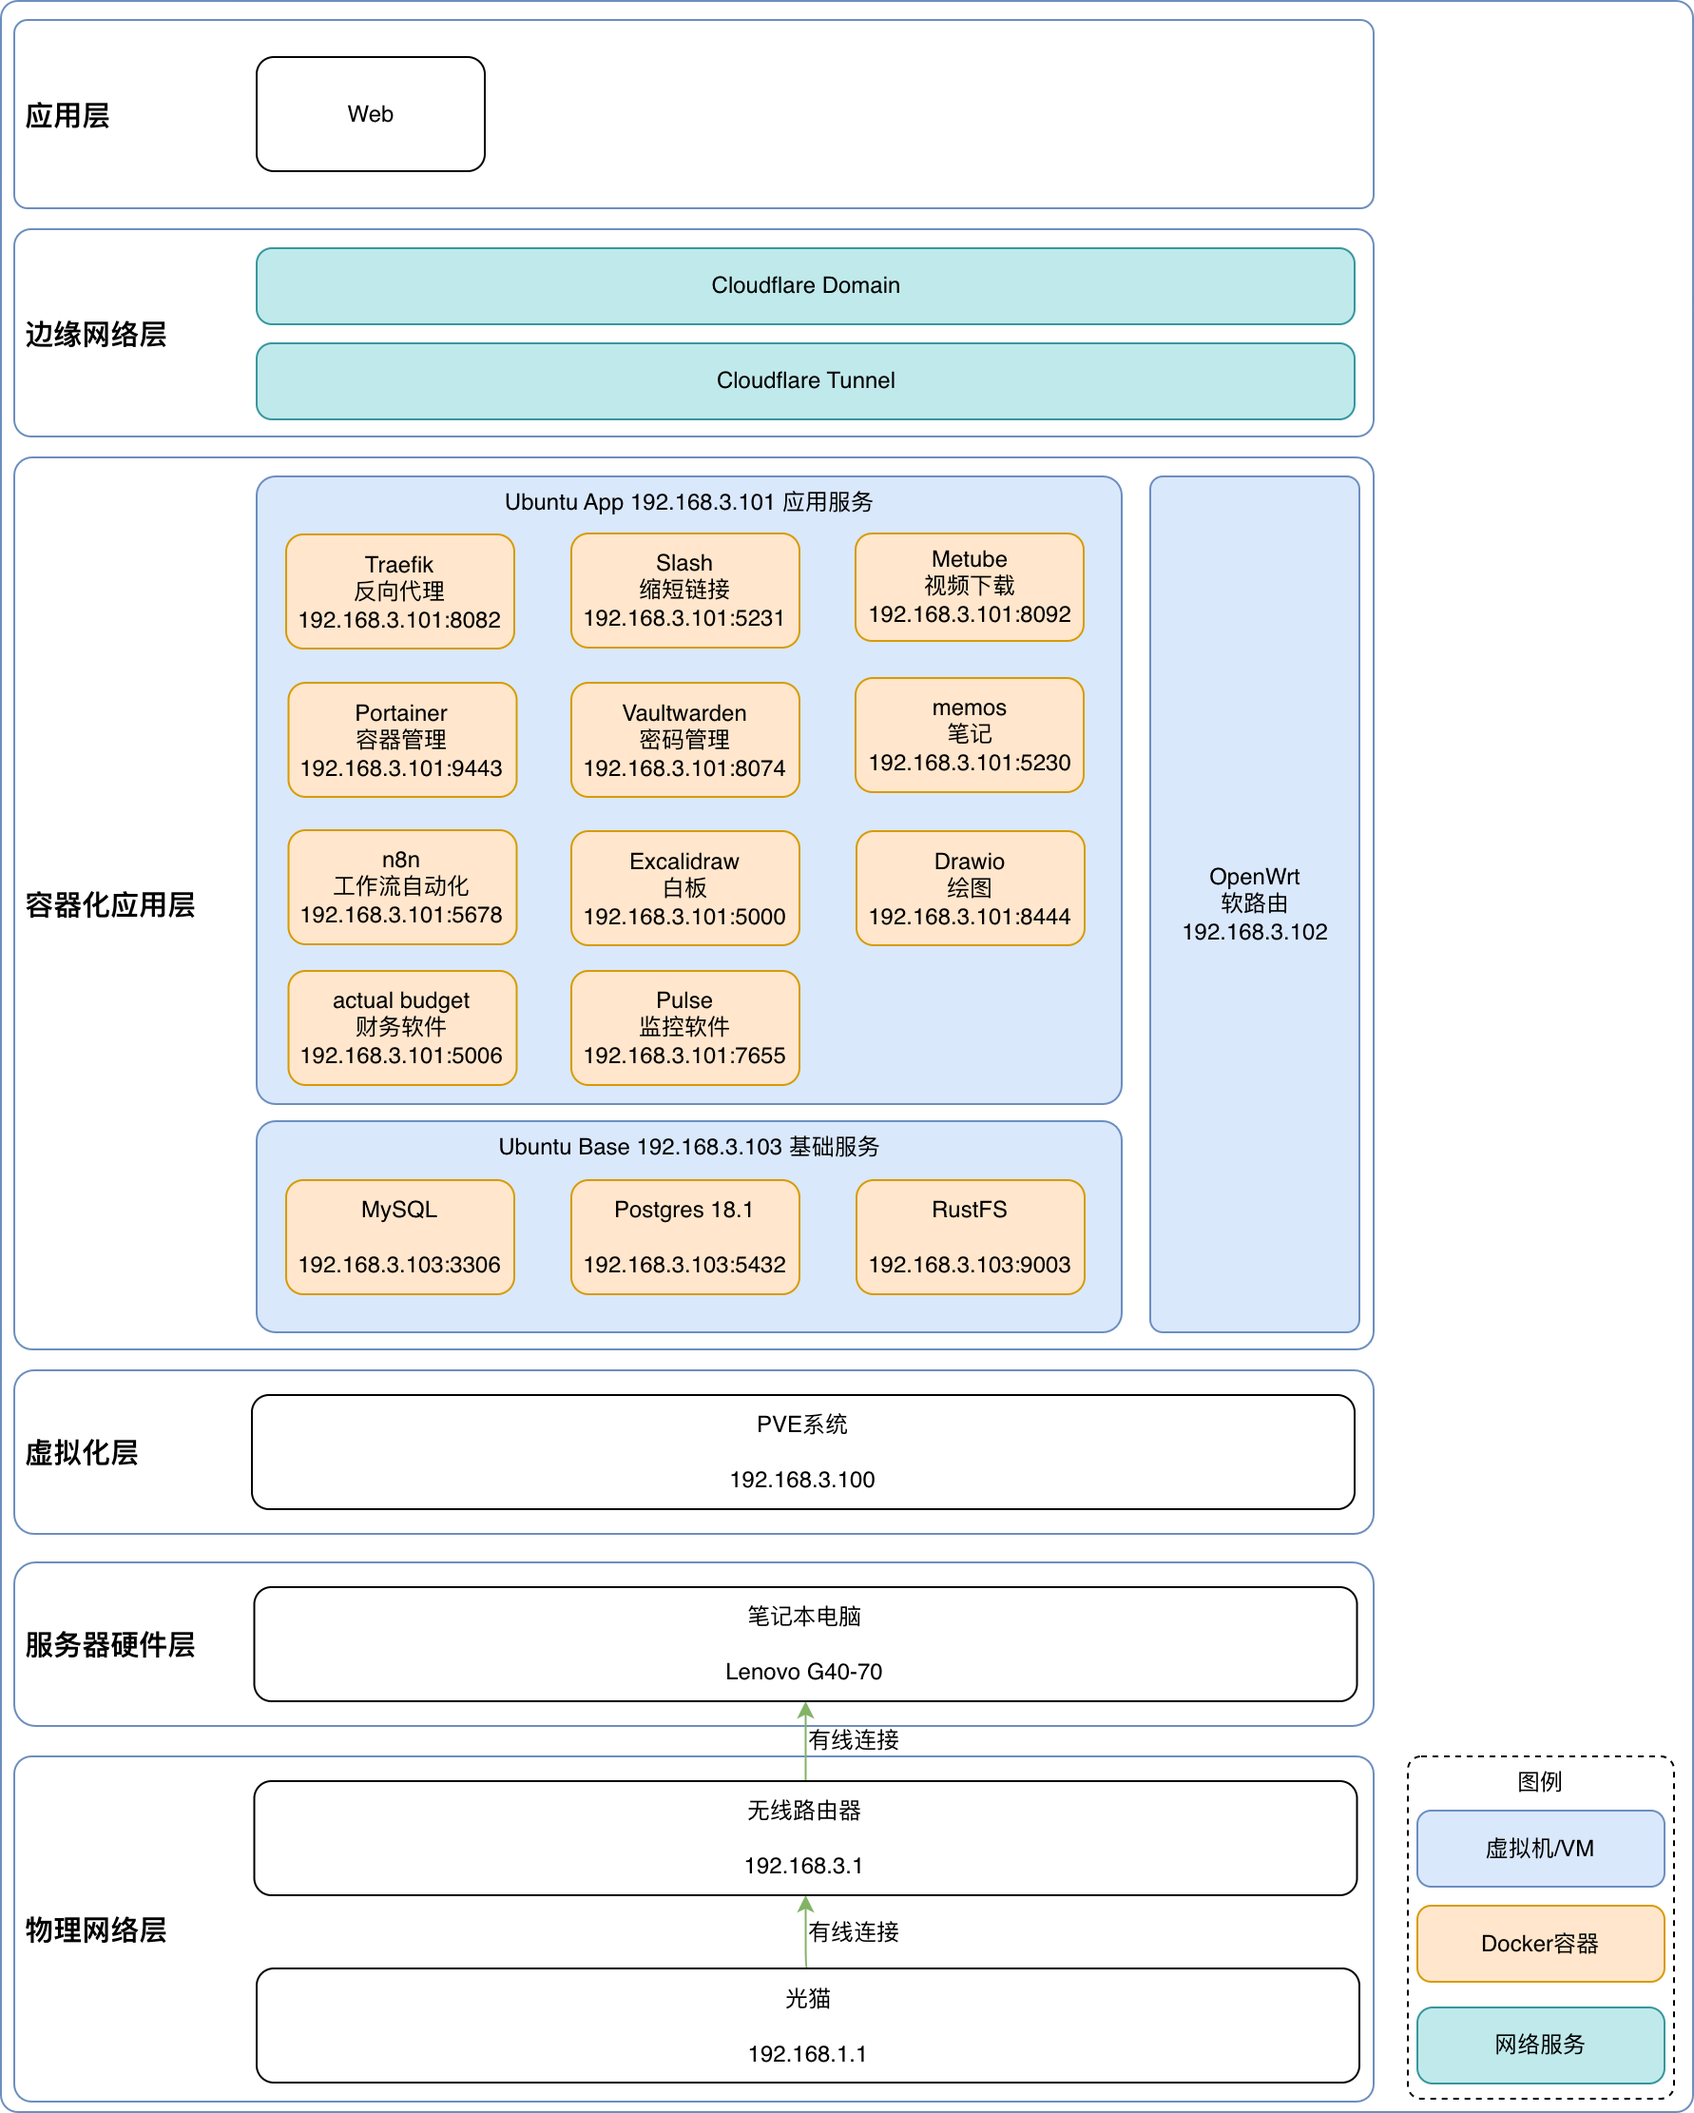
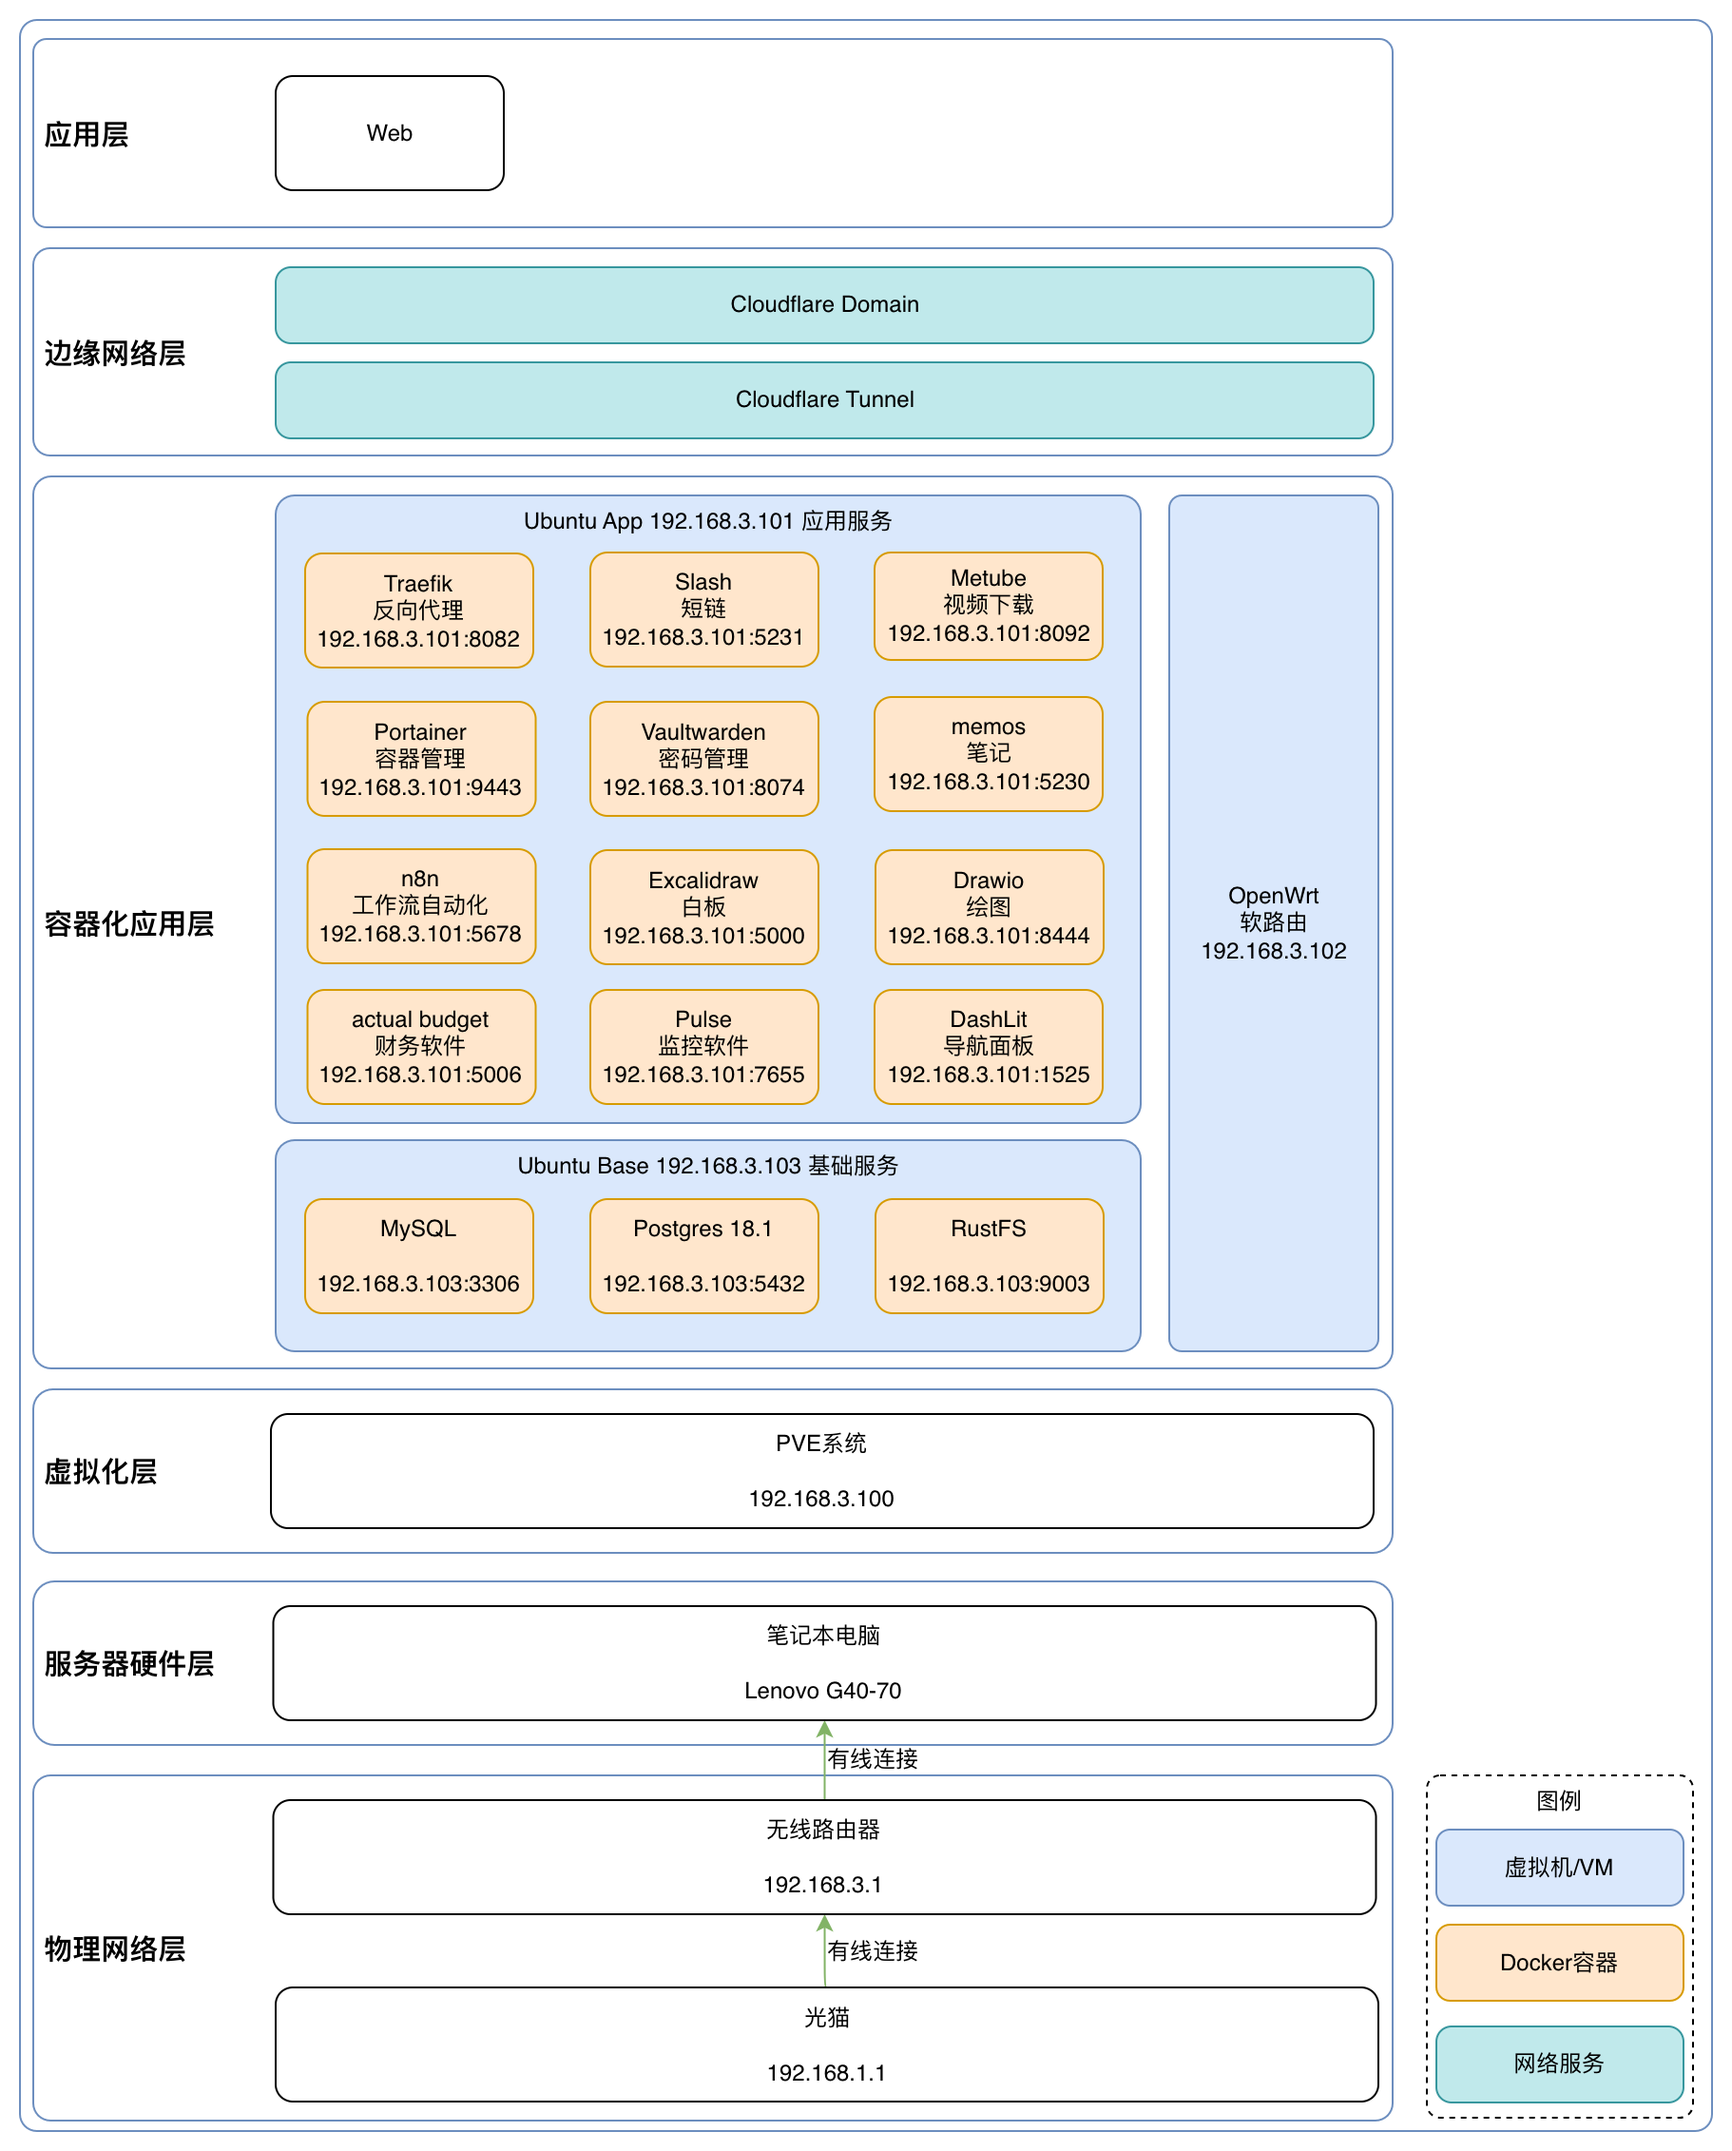
moatkon.com commit 1769964212

Changed region(s): [[0.0, 0.0, 1.0, 1.0]]

diff --git a/src/content/docs/homelab/applications.md b/src/content/docs/homelab/applications.md
@@ -2,7 +2,7 @@
 title: 应用部署
 description: 应用部署
 template: doc
-lastUpdated: 2026-01-27 23:51:33
+lastUpdated: 2026-02-02 00:43:27
 sidebar:
   order: 1.1
 ---
@@ -11,6 +11,8 @@ sidebar:
 ``` sh
 docker run -d --name slash --publish 5231:5231 --volume /home/moatkon/codes/slash/:/var/opt/slash yourselfhosted/slash:latest
 ```
+
+> 不建议做导航面板使用,稍微有点重。
 
 #### MySQL 
 ```sh
@@ -351,7 +353,7 @@ volumes:
 其他安装进到管理界面按照提示安装就好了
 
 
-### Homarr
+#### Homarr
 
 https://homarr.dev/docs/getting-started/installation/docker
 
@@ -373,6 +375,30 @@ services:
       - '7575:7575'
 			
 ```
+
+> 对资源要求比较高,我的机器不Hold不住,所以换成静态的了
+
+#### DashLit
+
+https://github.com/codewec/dashlit
+
+```yml
+services:
+  app:
+    container_name: dashlit-app
+    image: ghcr.io/codewec/dashlit:latest
+    restart: unless-stopped
+    environment:
+      ORIGIN: '${ORIGIN:-http://localhost:1525}'
+    ports:
+      - '1525:3000'
+    volumes:
+      - /self-hosted/dashlit:/app/data
+```
+
+> `${ORIGIN}` 是访问地址,如实填写
+
+![](/homelab/applications/dashlit-use-demo.png)
 
 #### 待托管
 - [ ] https://jellyfin.org/docs/general/installation/container

diff --git a/src/content/docs/homelab/deployment-architecture.md b/src/content/docs/homelab/deployment-architecture.md
@@ -2,7 +2,7 @@
 title: 最新部署情况
 description: 最新部署情况
 template: doc
-lastUpdated: 2026-01-26 00:02:04
+lastUpdated: 2026-02-02 00:43:27
 sidebar:
   order: 0
   badge:
@@ -14,7 +14,7 @@ sidebar:
 
 
 #### 部署细节
-![](/homelab/Moatkon-HomeLab-Arch-Deploy-Details.png?v=4)
+![](/homelab/Moatkon-HomeLab-Arch-Deploy-Details.png?v=5)
 
 
 #### 自托管资源
